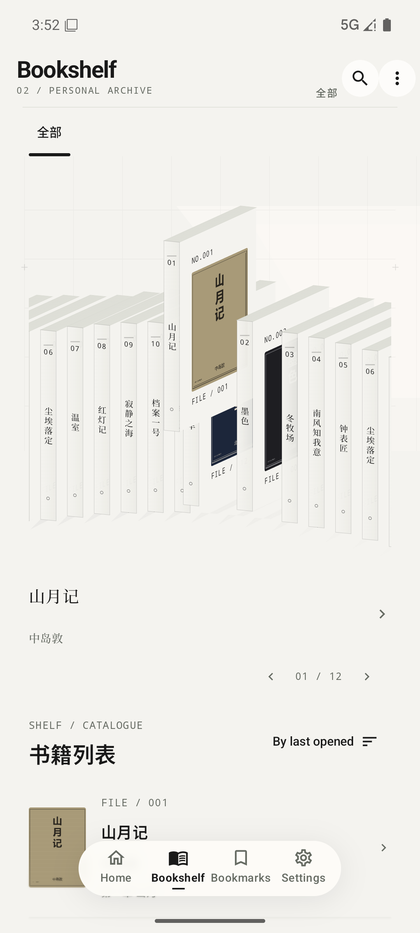
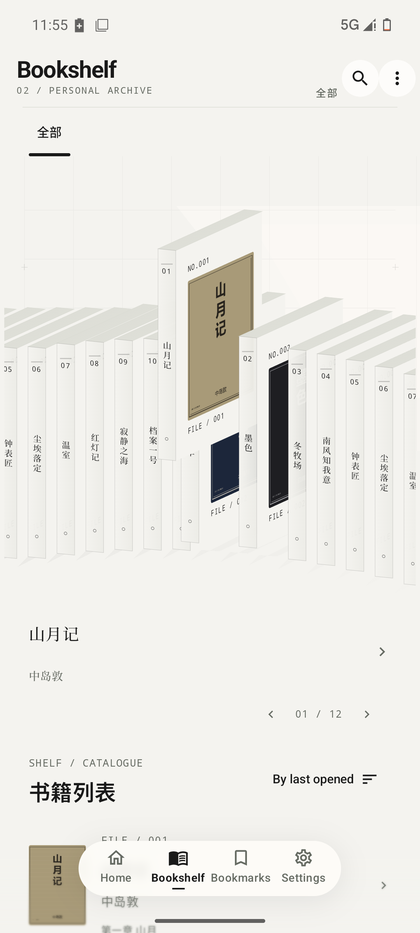
docs: README 换成改版说明（原版/改版对比 + 自己的截图），注明独立仓库与同步方式
- 顶图是「左原版 / 右改版」对比：书脊字体、编号缩进、书架宽度一眼可见
- 「改了什么」表格逐条写原版 → 改版；截图换成书架/书脊/朗读设置
- 上游 README（原版界面示意等）移到 README-UPSTREAM.md
- 结尾注明本仓库是独立仓库（非 fork）与 upstream 同步方式
- icon.png 从 1.5MB 缩到 256px

diff --git a/README.md b/README.md
@@ -1,64 +1,76 @@
-> **本仓库是 [sssdex](https://github.com/sssdex) 的个人改版，基于上游 [AzukiPann/AzukiReader](https://github.com/AzukiPann/AzukiReader) `1.00.12`。**
-> 只改了书架的三个小地方，阅读器、书源、同步等都没动：
-> ① 横滑书架**每跨一本轻振**（15ms / 振幅 150，直接走 Vibrator）
-> ② 封面上下编号**往里收**（`NO.001` / `FILE / 001` 离书口从 10dp 收到 18dp）
-> ③ 书脊与书名的**字体换成思源宋体**并按这个书架的实际尺寸收小字号（实测比照搬更合适）
->
-> 顺手修了两个问题：④ **省电模式下立体书架会变成平铺卡片**（原来跟 `isPowerSaveMode` 绑在一起，
-> 现在省电也保留 3D）⑤ **朗读设置页偶发 NPE 崩溃**（听书状态构建加了兜底）。
->
-> 又调了两处观感：⑥ **切标签页不再「旧页留着、新页叠上来」**（只画当前页，擦除 420ms → 200ms）
-> ⑦ **立体书架铺满屏幕宽度**（不再跟书目一样留 24dp 两边空白）。
->
-> 版本 `1.00.12-mod.3` · 安装包见 [Releases](../../releases) · 改动清单/构建方式/致谢见 **[FORK-NOTES.md](FORK-NOTES.md)**
->
-> 上游作者的说明（界面示意、与 MD3 版的区别等）保留在下方。
+<div align="center">
+  <img src="docs/images/icon.png" width="96" alt="AzukiReader">
+  <h2>AzukiReader · 个人改版</h2>
+  <p>在上游 <code>1.00.12</code> 上只动书架，另外修好三个问题</p>
+  <p>
+    <a href="https://github.com/sssdex/AzukiReader/releases/latest"><b>⬇ 下载 APK</b></a>
+    &nbsp;·&nbsp;
+    <a href="FORK-NOTES.md">改动清单与代码位置</a>
+    &nbsp;·&nbsp;
+    <a href="README-UPSTREAM.md">原版说明</a>
+  </p>
+  <sub>最新版 <code>1.00.12-mod.3</code> · 包名 <code>io.azukireader.app</code> · 与官方版同签名，可直接覆盖安装</sub>
+</div>
+
+<br>
+
+## 改了什么（左：原版 / 右：改版）
+
+![原版与改版对比](docs/images/compare-shelf.png)
+
+| 位置 | 原版 1.00.12 | 改版 mod.3 |
+| --- | --- | --- |
+| **书架横滑** | 只有 Compose 的 `SegmentFrequentTick`，强度由系统触摸反馈决定，实机几乎感觉不到 | 每跨过一本书直接调 `Vibrator`：**15ms / 振幅 150**（截图看不出来，实机滑一下就知道） |
+| **封面编号** | `NO.xxx` / `FILE / xxx` 离书口 10 / 9 / 8dp，贴着裁切线 | 收到 **18 / 12 / 11dp**，往里让出书口 |
+| **书脊与书名** | 系统黑体，书脊 9sp、下方书名 17sp 加粗、作者 12sp | **思源宋体**（GB2312 子集），按这个书架 100–128dp 的封面实测收到 **8.2 / 16 / 11sp** |
+| **书架宽度** | 跟档案书目一样吃 24dp 横向内边距，两边各留一条空白 | 书脊**铺满屏幕两边**，书名行仍在原边距 |
+| **切标签页** | 旧页保持不透明，新页用 420ms 斜向擦除盖上来；掉帧时两页文字叠在一起 | **只画当前页**，擦除 200ms，旧页瞬间移除，不再有重影 |
+| **省电模式** | `shelf3d` 跟 `isPowerSaveMode` 绑死，电量低自动降级成平铺卡片，看起来像书架丢了 | 省电模式**保留立体书架**（书架是静态绘制，不吃帧） |
+| **朗读设置** | 偶发 `NullPointerException` 崩溃（听书状态构造链） | 状态构建加兜底，异常时退回「未开始听书」，不再整页崩 |
+
+<br>
+
+## 截图
+
+| 书架：宋体书名、编号内收、铺满宽度 | 书脊与编号细节 |
+| --- | --- |
+| <img src="docs/images/azuki-shelf-mod.png" width="300"> | <img src="docs/images/azuki-spine-detail.png" width="300"> |
 
 <p align="center">
-  <img src="docs/images/azuki-shelf-mod.png" width="300" alt="改版后的立体书架：书脊宋体、封面编号内收" />
+  <img src="docs/images/azuki-speech-settings.png" width="300" alt="朗读设置" />
+  <br>
+  <sub>朗读设置：崩溃已兜底，能正常打开</sub>
 </p>
 
-<p align="center">
-  <img src="docs/images/icon.png" width="128" alt="AzukiReader 应用图标" />
-</p>
+<br>
 
+## 版本与安装
 
-# AzukiReader
+| 版本 | 内容 |
+| --- | --- |
+| `1.00.12-mod.3` | 当前版本：切页叠影、书架铺满宽度 |
+| `1.00.12-mod.2` | 省电模式保留 3D、朗读设置兜底 |
+| `1.00.12-mod` | 书架轻振、编号内收、宋体书名 |
 
-基于 **Legado 的阅读能力**，使用 **Wenku8 Flutter 的档案式界面与动效风格**制作的 Android 阅读应用。
+- 包名仍是 `io.azukireader.app`，用自签 keystore 签名，与本仓库的旧版本可以互相覆盖；
+  装过**官方 1.00.12** 的话需要先卸载（签名不同）。
+- APK 都挂在 [Releases](../../releases)；每个版本的说明里写了 md5 和改动细节。
 
-纯vibecoding产物,仅用于满足个人需求后续不会更新
+<br>
 
-## 界面示意
+## 已知限制
 
-<p align="center">
-  <img src="docs/images/azukireader-preview-01.jpg" width="320" alt="AzukiReader 立体书架、书籍列表和底部导航示意" />
-  <img src="docs/images/azukireader-preview-02.jpg" width="320" alt="AzukiReader 浅绿背景、楷体正文和阅读设置示意" />
-</p>
+- 轻振依赖系统「触摸振动」开关，关掉后不会有反馈。
+- 字体是 GB2312 子集（6763 汉字 + ASCII + 常用标点），生僻字回落到系统字体。
+- 朗读设置那次崩溃在本地模拟器复现不出来（Android 16 复现、机型是 Android 17），
+  所以做的是防御性兜底，不是确诊修复；如果再崩欢迎贴日志。
 
+<br>
 
-## 基于哪些项目
+---
 
-| 项目                                                         | 本项目使用的部分                                             |
-| ------------------------------------------------------------ | ------------------------------------------------------------ |
-| [HapeLee / legado-with-MD3](https://github.com/HapeLee/legado-with-MD3) | Android 应用主体、Kotlin / Compose 工程、书源与阅读业务、数据库、下载缓存、同步及原有阅读器能力。 |
-| [P5UEDGK / Wenku8_Flutter](https://github.com/P5UEDGK/Wenku8_Flutter) | 界面美术、档案式排版、玻璃导航、立体书架、动效与性能设置，以及在线听书实现的参考。相关能力在现有 Android 工程中适配。 |
-
-## 与 Legado MD3 版的主要区别
-
-以下对比针对本项目移植时使用的 Legado MD3 基线，不代表上游未来版本的功能状态。
-
-| 方面         | AzukiReader 的调整                                           |
-| ------------ | ------------------------------------------------------------ |
-| 整体外观     | 采用 Wenku8 风格的暖白纸色、细线、英文档案标识、导航序号与网格背景；设置、菜单和弹窗使用对应视觉样式。 |
-| 导航与动画   | 使用玻璃胶囊导航、按压形变和切换回弹，加入文字分段出现等动效；调整页面、阅读器和设置子页过渡，减少切换闪烁。 |
-| 导航入口     | 书签单独占据底栏入口；发现和订阅默认隐藏，可在设置中恢复，标题编号随可见导航计算。 |
-| 书架         | 上方为可隐藏的立体书架，下方为完整列表或网格；立体书架数量可设置为 1–100 本，默认 12 本，封面未加载时保留白书占位。 |
-| 分组与排序   | 增加抽屉式分组布局；书架默认列表展示，默认按最后打开的书籍排序，并同步最近阅读状态。 |
-| 书签与摘录   | 阅读工具栏加入书签入口；用当前页及同章下一页的连续正文自由选取摘录，本章最后一页只提供当前页；支持一键将全部摘录导出为 Markdown。 |
-| 阅读数据     | 支持阅读数据 JSON 导入、导出；记录当前位置及章内比例，另在阅读记录中展示最高章节标题、章节数/总章节和章内比例。 |
-| 每日阅读统计 | 每本书的同一设备记录按自然日累计时长，反复打开不会每次新增一条记录；跨午夜分日，重复导入日快照避免重复计时。 |
-| 刷新率与动效 | 阅读界面刷新率单独设置，默认请求 30 Hz；增加性能与动效设置及轻量降级。实际刷新率由设备和系统决定。 |
-| 朗读设置 | 设置与阅读器共用音色、倍速及定时控制，应用全局音色；删除前确认，另支持 DeepSeek 海星女声与暗潮男声。 |
-
-朗读设置的修改与验证记录见 [功能说明](features/readaloud-unification/README.md)，1.00.10 安装包及校验记录见 [发布说明](features/release-1.00.10/README.md)。
+<sub>本仓库是 [sssdex](https://github.com/sssdex) 的个人改版（独立仓库，不是 GitHub fork，所以能被默认搜索索引到），
+基于 [AzukiPann/AzukiReader](https://github.com/AzukiPann/AzukiReader) `1.00.12`，只改书架、保存/阅读/书源等逻辑未动；
+同步上游用 `upstream` 远程手动合并（见 [FORK-NOTES.md](FORK-NOTES.md)）。
+原版界面示意与功能对比见 [README-UPSTREAM.md](README-UPSTREAM.md)，逐条实现与致谢见 [FORK-NOTES.md](FORK-NOTES.md)。
+上游未声明 License，本改版仅作个人使用。</sub>

diff --git a/README-UPSTREAM.md b/README-UPSTREAM.md
@@ -1,0 +1,56 @@
+# AzukiReader 原版说明
+
+> 下面是从上游 [AzukiPann/AzukiReader](https://github.com/AzukiPann/AzukiReader) `1.00.12` 的 README 原样保留的内容（界面示意、基于哪些项目、与 Legado MD3 版的区别）。
+> 本仓库的改动见 [README.md](README.md) / [FORK-NOTES.md](FORK-NOTES.md)。
+
+---
+
+<p align="center">
+  <img src="docs/images/azuki-shelf-mod.png" width="300" alt="改版后的立体书架：书脊宋体、封面编号内收" />
+</p>
+
+<p align="center">
+  <img src="docs/images/icon.png" width="128" alt="AzukiReader 应用图标" />
+</p>
+
+
+# AzukiReader
+
+基于 **Legado 的阅读能力**，使用 **Wenku8 Flutter 的档案式界面与动效风格**制作的 Android 阅读应用。
+
+纯vibecoding产物,仅用于满足个人需求后续不会更新
+
+## 界面示意
+
+<p align="center">
+  <img src="docs/images/azukireader-preview-01.jpg" width="320" alt="AzukiReader 立体书架、书籍列表和底部导航示意" />
+  <img src="docs/images/azukireader-preview-02.jpg" width="320" alt="AzukiReader 浅绿背景、楷体正文和阅读设置示意" />
+</p>
+
+
+## 基于哪些项目
+
+| 项目                                                         | 本项目使用的部分                                             |
+| ------------------------------------------------------------ | ------------------------------------------------------------ |
+| [HapeLee / legado-with-MD3](https://github.com/HapeLee/legado-with-MD3) | Android 应用主体、Kotlin / Compose 工程、书源与阅读业务、数据库、下载缓存、同步及原有阅读器能力。 |
+| [P5UEDGK / Wenku8_Flutter](https://github.com/P5UEDGK/Wenku8_Flutter) | 界面美术、档案式排版、玻璃导航、立体书架、动效与性能设置，以及在线听书实现的参考。相关能力在现有 Android 工程中适配。 |
+
+## 与 Legado MD3 版的主要区别
+
+以下对比针对本项目移植时使用的 Legado MD3 基线，不代表上游未来版本的功能状态。
+
+| 方面         | AzukiReader 的调整                                           |
+| ------------ | ------------------------------------------------------------ |
+| 整体外观     | 采用 Wenku8 风格的暖白纸色、细线、英文档案标识、导航序号与网格背景；设置、菜单和弹窗使用对应视觉样式。 |
+| 导航与动画   | 使用玻璃胶囊导航、按压形变和切换回弹，加入文字分段出现等动效；调整页面、阅读器和设置子页过渡，减少切换闪烁。 |
+| 导航入口     | 书签单独占据底栏入口；发现和订阅默认隐藏，可在设置中恢复，标题编号随可见导航计算。 |
+| 书架         | 上方为可隐藏的立体书架，下方为完整列表或网格；立体书架数量可设置为 1–100 本，默认 12 本，封面未加载时保留白书占位。 |
+| 分组与排序   | 增加抽屉式分组布局；书架默认列表展示，默认按最后打开的书籍排序，并同步最近阅读状态。 |
+| 书签与摘录   | 阅读工具栏加入书签入口；用当前页及同章下一页的连续正文自由选取摘录，本章最后一页只提供当前页；支持一键将全部摘录导出为 Markdown。 |
+| 阅读数据     | 支持阅读数据 JSON 导入、导出；记录当前位置及章内比例，另在阅读记录中展示最高章节标题、章节数/总章节和章内比例。 |
+| 每日阅读统计 | 每本书的同一设备记录按自然日累计时长，反复打开不会每次新增一条记录；跨午夜分日，重复导入日快照避免重复计时。 |
+| 刷新率与动效 | 阅读界面刷新率单独设置，默认请求 30 Hz；增加性能与动效设置及轻量降级。实际刷新率由设备和系统决定。 |
+| 朗读设置 | 设置与阅读器共用音色、倍速及定时控制，应用全局音色；删除前确认，另支持 DeepSeek 海星女声与暗潮男声。 |
+
+朗读设置的修改与验证记录见 [功能说明](features/readaloud-unification/README.md)，1.00.10 安装包及校验记录见 [发布说明](features/release-1.00.10/README.md)。
+
